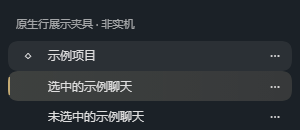
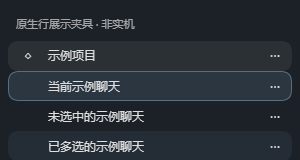
fix: redesign sidebar current-chat selection

diff --git a/runtime/wukong-codex-theme-background-v13.css b/runtime/wukong-codex-theme-background-v13.css
@@ -23,9 +23,9 @@
   --forge-nav-shadow: none;
   --forge-nav-hover: rgba(255,255,255,.14);
   --forge-nav-row-hover: rgba(255,255,255,.07);
-  --forge-nav-selected-fill: rgba(224,211,180,.14);
-  --forge-nav-selected-mark: rgba(222,190,126,.84);
-  --forge-nav-selected-sheen: rgba(255,245,218,.035);
+  --forge-nav-selected-fill: rgba(129,168,201,.09);
+  --forge-nav-current-fill: rgba(129,168,201,.16);
+  --forge-nav-current-edge: rgba(167,200,229,.38);
   --forge-shell-filter: blur(8px);
   --forge-summary-fill: rgb(from var(--forge-glass-fill) r g b / 1);
   /* Reading material defaults; custom themes can override these alongside
@@ -55,9 +55,9 @@
   --forge-nav-shadow: none;
   --forge-nav-hover: rgba(15,30,22,.13);
   --forge-nav-row-hover: rgba(15,30,22,.055);
-  --forge-nav-selected-fill: rgba(105,78,35,.11);
-  --forge-nav-selected-mark: rgba(125,87,35,.82);
-  --forge-nav-selected-sheen: rgba(255,255,255,.16);
+  --forge-nav-selected-fill: rgba(72,111,145,.07);
+  --forge-nav-current-fill: rgba(72,111,145,.12);
+  --forge-nav-current-edge: rgba(54,89,121,.30);
 }
 
 /* The portalled tab content is clipped around the registered end actions.
@@ -327,9 +327,9 @@
   color: var(--forge-nav-ink) !important;
   text-shadow: var(--forge-nav-shadow);
 }
-/* Shared native rows use one ghost token for project, hover and selection.
- * Keep hover lighter and give selected chats their own paint. Background layers
- * leave the link hitbox, focus outline, drop ring and native row contour intact.
+/* Current chat and multi-selection share a cool tint. An inset edge identifies
+ * the current chat without taking space or using the link's focus/hitbox layer.
+ * Native drop rows keep their own paint and ring.
  */
 @media (forced-colors: none) {
 :root.forge-ink-mountain .sidebar-navigation:not([data-activity-sidebar-host]) :is(
@@ -343,17 +343,11 @@
   [data-app-action-sidebar-thread-selected="true"]
 ):not([data-file-drop-active="true"]):not([class~="bg-text-info/10"]):not([data-activity-sidebar-host] *) {
   background-color: var(--forge-nav-selected-fill) !important;
-  background-image: linear-gradient(var(--forge-nav-selected-mark), var(--forge-nav-selected-mark)),
-    linear-gradient(90deg, var(--forge-nav-selected-sheen), transparent) !important;
-  background-size: 2px calc(100% - 12px), 100% 100% !important;
-  background-position: left center, center !important;
-  background-repeat: no-repeat !important;
+  background-image: none !important;
 }
-:root.forge-ink-mountain .sidebar-navigation:not([data-activity-sidebar-host]) [data-app-action-sidebar-thread-row].sidebar-item:is(
-  [data-app-action-sidebar-thread-active="true"],
-  [data-app-action-sidebar-thread-selected="true"]
-):not([data-file-drop-active="true"]):not([class~="bg-text-info/10"]):not([data-activity-sidebar-host] *):dir(rtl) {
-  background-position: right center, center !important;
+:root.forge-ink-mountain .sidebar-navigation:not([data-activity-sidebar-host]) [data-app-action-sidebar-thread-row].sidebar-item[data-app-action-sidebar-thread-active="true"]:not([data-file-drop-active="true"]):not([class~="bg-text-info/10"]):not([data-activity-sidebar-host] *) {
+  background-color: var(--forge-nav-current-fill) !important;
+  box-shadow: inset 0 0 0 1px var(--forge-nav-current-edge) !important;
 }
 }
 :root.forge-ink-mountain :is([class^="ApplicationMenuTopBar-"], [class*=" ApplicationMenuTopBar-"]) {

diff --git a/docs/RELEASE_NEXT.md b/docs/RELEASE_NEXT.md
@@ -1,13 +1,9 @@
-# 侧栏选中与新聊天首帧（开发状态）
+# 侧栏选中态重新设计（开发状态）
 
-2026-11-09，运行时v122-sidebar-landing-first-paint，原生来源Windows Codex 26.1103.4239.0（包内26.1103.32239）。尚未创建新正式发行，README下载仍为v0.18.9。
+2026-11-09，运行时 v123-sidebar-current-outline，原生来源 Windows Codex 26.1103.4239.0（包内 26.1103.32239）。正式下载仍为 v0.18.9。
 
-侧栏原生共享行把项目标题、悬停和选中聊天共用同一灰色。本轮给项目／非选中行较浅的局部反馈，选中聊天按active或selected语义使用单一阅读底色与细起始色带。仅调整真实row的绘制，不占用链接伪元素，不改outline、drop ring、圆角、尺寸或按钮命中区域；拖放、活动侧栏及高对比模式保留自身状态。
+当前聊天用冷色底和一圈细内描边，多选但未打开的聊天只用更淡的冷色底，项目标题保留轻悬停。取消旧的起始色带。沿用原生行尺寸、圆角、键盘焦点及点击区域；拖放与系统高对比状态继续由客户端绘制。
 
-新聊天的home-icon和game-source标题已有稳定原生标记，现直接作为CSS绘制入口，挂载即隐藏原生图形／题字并使用既有悟空字标和题字，不再等待data-forge-mark或title-copy属性。后续标记与首帧使用同一外观；关闭题字和forced-colors也覆盖未标记节点，保留原生动效父节点的可见性与项目按钮交互。
+新聊天沿用 v122 的首帧修复：图标与题字直接在对应原生节点挂载时替换，项目条材料在实际背景载体上生效。原生动效与项目按钮交互保留。
 
-项目条的UtilityBarSlot是透明定位壳，真正表面为带原生背景token的data-composer-utility-rail。该表面的玻璃模糊现与底色／高光一起首帧生效；透明变体、内部scroll-area与定位壳保持自身材料归属。
-
-没有增加整页同步扫描、轮询或新的等待状态。原生完整视图、图库、背景队列、材料热更新和增量标记行为保留。原生源码合同、夹具预览及实机检查分别记录于 [验证记录](VALIDATION.md) 与 [预览说明](previews/README.md)，不把夹具结果写为用户视觉验收。
-
-最终独立源码195/195检查与Studio E2E通过，v122已注入并返回verified=true、deferred=false；窗口可见、背景就绪、完整样式与已验证输入一致。实机侧栏已核对底色／色带和相同矩形；用户保持的新聊天实际标题、图标及项目条材料owner也已核对一致，父定位层与内部scroll-area透明。该次读取时窗口隐藏、节点已有标记，属于稳定结构确认；点击后首帧由无标记动态回归验证，尚无真实窗口首帧捕获或前台视觉验收。
+查看[深浅色预览](previews/README.md)和[验证记录](VALIDATION.md)。

diff --git a/docs/CURRENT_GOAL.md b/docs/CURRENT_GOAL.md
@@ -1,12 +1,12 @@
 # 当前目标与发行状态
 
-更新：2026-11-09。当前开发适配为 **v122-sidebar-landing-first-paint**：侧栏项目标题／悬停使用较浅反馈，选中聊天使用独立阅读底色与起始色带；新聊天图标、题字和项目条材料直接按原生语义节点绘制，减少先显示原生内容再替换的闪现。
+更新：2026-11-09。当前开发适配为 **v123-sidebar-current-outline**：当前聊天用冷色底与一圈细内描边，多选但未打开的聊天用更淡的冷色底，项目标题保留轻悬停。新聊天继续沿用 v122 的图标、题字和项目条首帧规则。
 
-当前来源为Windows Codex 26.1103.4239.0（包内26.1103.32239）。不等待延迟运行时标记即可应用首页替换；原生动效父节点、项目选择按钮、布局、焦点与拖放语义仍由客户端控制。深浅预览及来源见 [预览说明](previews/README.md)，具体范围见 [当前适配说明](RELEASE_NEXT.md)。
+当前来源为 Windows Codex 26.1103.4239.0（包内 26.1103.32239）。侧栏沿用原生行尺寸、圆角、键盘焦点与拖放反馈。深浅预览及来源见 [预览说明](previews/README.md)，具体范围见 [当前适配说明](RELEASE_NEXT.md)。
 
-此前v121计数优化后，用户仍反馈标签页开合卡顿；临时完整恢复原生后也同样卡顿，主题随后已恢复。客户端减少动态效果尚未开启：用户在设置操作中按Esc停止。该项不记为已解决，本轮聚焦新提出的侧栏与首帧显示问题。
+此前 v121 计数优化后，用户仍反馈标签页开合卡顿；临时完整恢复原生后也同样卡顿，主题随后已恢复。客户端减少动态效果尚未开启：用户在设置操作中按 Esc 停止。该项不记为已解决。
 
-独立源码195/195检查、零失败／跳过与Studio E2E通过；v122已注入，当前窗口可见且verified=true、背景就绪、完整样式一致。实机侧栏及用户保持的新聊天稳定结构已读回：标题、图标和utility rail材料均命中预期，透明外壳未重复绘制。首帧由原生结构动态回归验证；该次新聊天读取时窗口隐藏，前台视觉验收尚未完成。本轮为开发源码更新，尚未创建新正式发行，正式下载继续指向v0.18.9。验证与实际注入边界见 [VALIDATION.md](VALIDATION.md)。
+本轮为开发源码更新，正式下载继续指向 v0.18.9。独立源码检查与本机读回见 [验证记录](VALIDATION.md)。
 
 以下为上一正式发行的记录，开发版验证及实际注入状态另见 [验证记录](VALIDATION.md)。
 

diff --git a/docs/VALIDATION.md b/docs/VALIDATION.md
@@ -1,5 +1,13 @@
 # 当前适配验证
 
+## v123-sidebar-current-outline（2026-11-09 开发适配）
+
+Windows Codex 26.1103.4239.0（包内 26.1103.32239）的 ASAR 哈希与来源锁一致。侧栏专项使用实际共享行渲染器与聊天状态属性，在深浅色、300／380 CSS px 下验证项目悬停、当前聊天和多选聊天三种绘制。旧共享灰底可复现；新版仅当前聊天有 1 CSS px 内描边。行、链接与按钮尺寸、键盘焦点、菜单与点击、文件及会话拖放反馈、活动侧栏隔离、RTL 与强制颜色均通过。
+
+11 个暂存更新路径与独立导出的对应文件 SHA-256 一致。同一份独立源码的 `npm run check` **195/195 通过**，0 失败或跳过，约 67.8 秒；`npm run test:e2e`（Studio）通过。深浅预览使用当前原生行渲染器夹具。
+
+从验证源码注入本机，完整样式含主题变量与验证输入一致。深色实际当前聊天行为 261.6×30 CSS px，圆角 12.5 px；读回冷色底 rgba(129,168,201,.16)、无背景图、1 px 内描边，与旧版同一行的尺寸一致。读取时窗口隐藏，注入返回 `deferred=true`、`verified=false`，壁纸待窗口恢复可见时就绪；实机记录覆盖后台渲染器样式，前台观感待用户确认。临时产物见 [清理记录](CLEANUP.md)。
+
 ## v122-sidebar-landing-first-paint（2026-11-09 开发适配）
 
 当前原生来源仍为Windows Codex 26.1103.4239.0，包内26.1103.32239，ASAR SHA-256再次核对为fb47d6491dc3006b708cb1e14de479b882bf50f88b7daa81818f154c253266aa。侧栏按实际共享row、project／thread属性及active／selected独立状态核对，标题／图标与项目条按真实home JSX和utility rail绘制归属核对，不以固定模块hash或猜测尺寸充当接口。

diff --git a/docs/native-surface-adaptation.md b/docs/native-surface-adaptation.md
@@ -1,8 +1,8 @@
 # 原生 UI 与主题替换接口
 
-## 侧栏选中与首页首帧（2026-11-09，v122）
+## 侧栏选中与首页首帧（2026-11-09，v123）
 
-当前共享sidebar-item绘制背景来自row自身，active、selected、hover与菜单展开使用ghost token。按data-app-action-sidebar-project-row／thread-row限定局部状态，thread active／selected取原生字符串属性；新增层只改背景，不覆盖row链接的::before hitbox、outline或drop ring。拖放token、activity-sidebar-host与forced-colors被排除，原生contour和尺寸保留。
+共享 sidebar-item 行使用原生 active、selected、hover 和菜单状态。主题按 data-app-action-sidebar-project-row／thread-row 区分项目与聊天：项目悬停和菜单用局部 ghost token，selected 聊天用淡冷色底，active 聊天覆盖为更清晰的冷色底及 1 CSS px 内描边。内描边由行自身的 inset box-shadow 绘制，沿用原生圆角，不占用链接的 ::before 热区或键盘焦点轮廓。拖放状态、activity-sidebar-host 和 forced-colors 保持原生绘制；左右书写方向使用同样的完整描边。
 
 首页标题game-source是heading div，并非hero布局祖先；其子span可能包含真实项目选择按钮。home-icon是独立motion图标容器，父级通过原生opacity动画进出。主题直接对这两个语义owner绘制，与后续运行时属性共享字标／题字；不强制父级visibility，不改真实标题子控件的点击或布局。quote关闭与高对比路径也覆盖未标记节点。
 

diff --git a/docs/CLEANUP.md b/docs/CLEANUP.md
@@ -1,5 +1,11 @@
 # 仓库整理与恢复
 
+## 2026-11-09 v123 侧栏选中态收尾
+
+清理本轮独立源码、自动测试的运行与下载包、事件宿主目录及 Studio 导出，共 15 个 Temp 目录、277 个文件、27,168,160 字节。先确认源码依赖联接指向共享依赖并单独移除，再核对每个目录的路径、创建时间和重解析点；删除后确认全部目标已不存在，共享依赖保留。Studio 5192 已关闭，无本轮导出源码相关进程或新增 Archives 存档。
+
+深浅色夹具保留在 docs/previews。忽略的 artifacts/sidebar-current-outline-20261109 约 34 KB，保留精确输入、测试结果、实机样式与几何读回及清理记录。没有新正式包、私有聊天截图或浏览器会话。
+
 ## 2026-11-09 v122 侧栏与首页首帧收尾
 
 普通删除本轮两份独立源码、全量测试的运行／下载包、事件宿主与Studio导出，以及上次电脑控制停止后保留、现已无用途的恢复脚本目录，共9个Temp顶层目录、530个文件、51,822,522字节。另删除已归并的sidebar定向日志／计数和已替代的初始结构记录，共3个文件、22,241字节。先核对任务前基线、创建时间、已知测试前缀及精确路径；上次目录单独确认只含已知恢复脚本。两份源码的node_modules联接核对指向共享依赖后单独移除，复查ReparsePoint为0再递归删除；另一调用确认所有目标不存在，共享依赖保留，未使用强制删除。

diff --git a/docs/previews/README.md b/docs/previews/README.md
@@ -1,12 +1,19 @@
 # 当前预览
 
-## v122 侧栏与首页首帧（2026-11-09）
+## v123 侧栏选中态（2026-11-09）
 
-以下四张为当前Windows Codex 26.1103.4239.0原生来源的展示夹具，使用测试项目／会话文案及本版主题材料；**不是实际客户端截图，也不是用户视觉验收**。侧栏检查共享row的选中、悬停、焦点和拖放；首页预览展示替换后的稳定外观，标记前后绘制一致由单独的首帧回归验证；不含聊天、账户或本机路径。
+用 Windows Codex 26.1103.4239.0 的原生行渲染器展示项目悬停、当前聊天、普通聊天和多选聊天。当前聊天有细内描边，多选聊天只有较淡的底色。图片来自自动测试夹具。
 
 | 深色 | 浅色 |
 | --- | --- |
 | ![深色侧栏选中夹具](dark-sidebar-selection-fixture-20261109.png) | ![浅色侧栏选中夹具](light-sidebar-selection-fixture-20261109.png) |
+
+## v122 新聊天首帧（2026-11-09）
+
+首页夹具展示替换后的稳定外观，首帧与加标记后的一致性由独立动态回归验证。
+
+| 深色 | 浅色 |
+| --- | --- |
 | ![深色首页首帧夹具](dark-landing-first-paint-fixture-20261109.png) | ![浅色首页首帧夹具](light-landing-first-paint-fixture-20261109.png) |
 
 ## v120／v121 标签页右端背景组件夹具（2026-11-09）

diff --git a/docs/logs/CHANGELOG.md b/docs/logs/CHANGELOG.md
@@ -1,5 +1,10 @@
 # 当前变更
 
+## 2026-11-09：v123 侧栏当前聊天（开发适配）
+
+- 当前聊天改为冷色底与细内描边，多选聊天使用更淡的冷色底，项目标题保留轻悬停。
+- 沿用原生行尺寸、焦点与拖放样式；更新深浅色预览与侧栏回归，详细结果见 [验证记录](../VALIDATION.md)。
+
 ## 2026-11-09：v122 侧栏选中与新聊天首帧（开发适配）
 
 - 分开项目／悬停与选中聊天的背景反馈，选中行使用独立底色和细起始色带；链接伪元素、原生outline、drop ring及几何保留。

diff --git a/README.md b/README.md
@@ -6,7 +6,7 @@
 
 ## 效果预览
 
-悟空场景与深浅玻璃材质。侧栏选中与新聊天首帧的适配进度见[当前适配说明](docs/RELEASE_NEXT.md)。
+悟空场景与深浅玻璃材质。新版侧栏选中效果见[深浅色预览](docs/previews/README.md)。
 
 | 深色 | 浅色 |
 | :---: | :---: |
